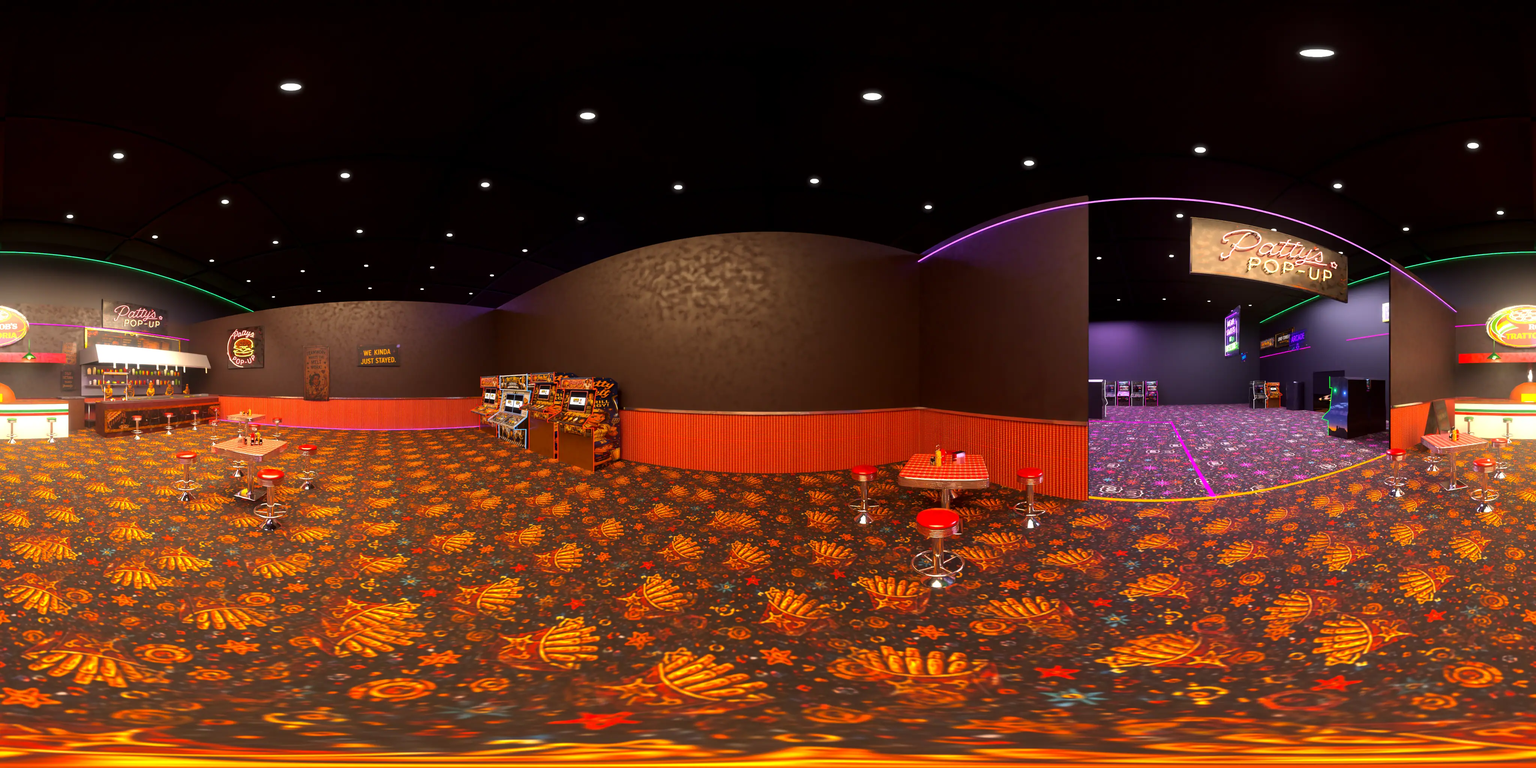
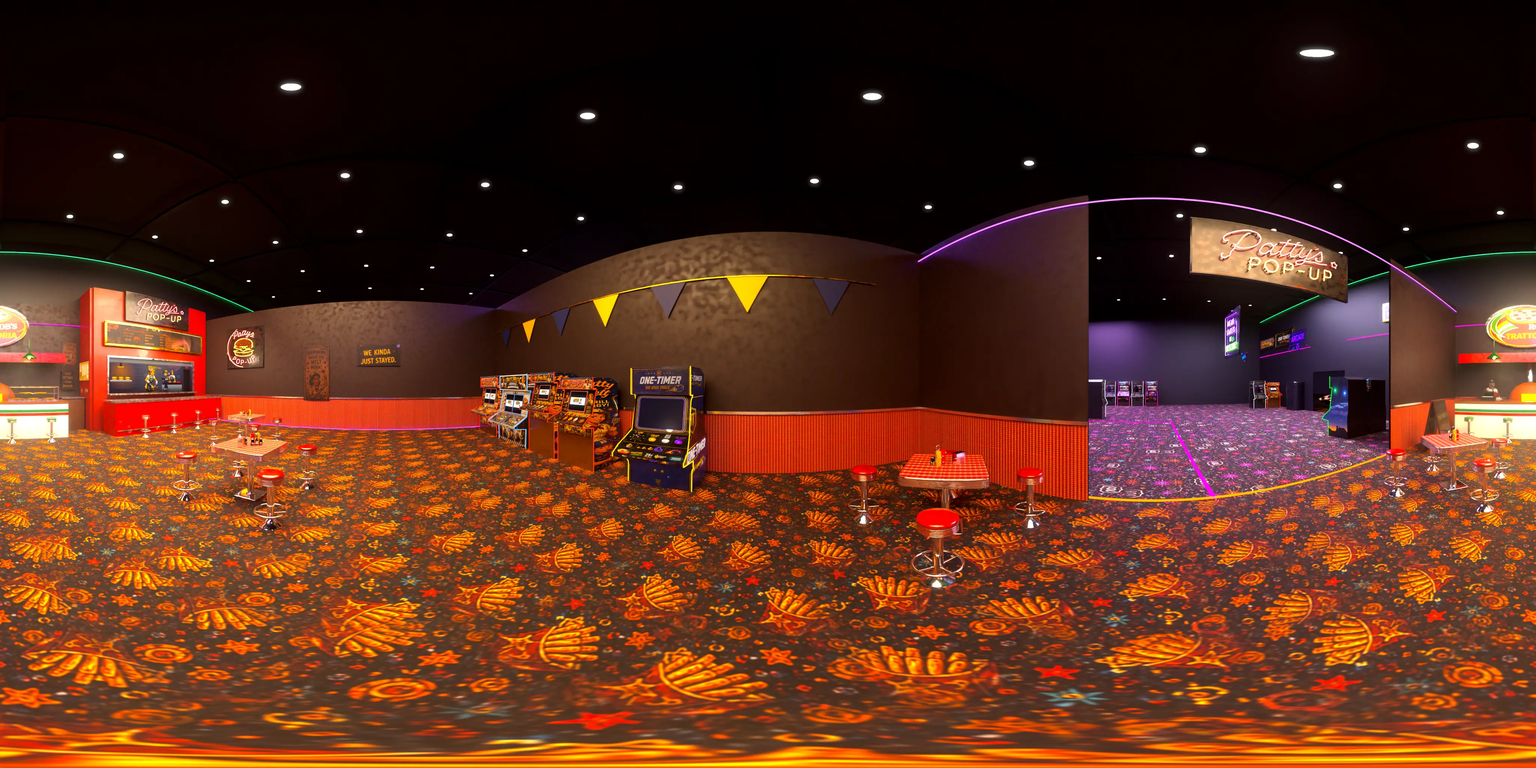
HYSCORE walk 1119: hallway to the GATEWAY open + Patty's pop-up / Rob's / student section panos; live-window player (live.js + sprite frames)

diff --git a/live.js b/live.js
@@ -1,0 +1,146 @@
+// HYSCORE WALK — LIVE WINDOWS (1119, Joe: "replace that with a window of game action with our game sprites cooking
+// burgers and billy grabbing burgers and disappearing out the back or serving an area of patrons you cant access").
+// The pop-up's kitchen is a pass-through window in its back wall. Through it: the PATTY MELT HEROES ink cast at work,
+// drawn live from the game's own sprites (data/live/*.webp): Chrissy at the flat-top with TWO spatulas (cheese, flip),
+// Patty on the second griddle, the burgers stacking on the pass under the heat lamp, and BILLY coming in the back door,
+// grabbing a burger off the pass, then either ducking out the back again or carrying it off to the student section
+// (out of frame: a place you can see served, never walk to). One 512x160 canvas, 12 drawings a second, a 10 s loop.
+// The panorama under it carries a still of the same scene (Blender's window quad), so moves (pre-rendered clips) match.
+// level.json `live`: [{id, quad: [[x,y,z] TL, TR, BR, BL] in metres, nodes: [ids that see it unobstructed]}].
+'use strict';
+(function () {
+  const W = 512, H = 160, FPS = 12, LOOP = 10;
+  const NAMES = ['chrissyB-cheese', 'chrissy-cheese', 'patty-serve', 'patty-idle', 'billyH-serve', 'billyH-turn', 'patty-done', 'patty-seared', 'patty-raw',
+                 'bread', 'cheese-melting'].concat([0, 1, 2, 3, 4, 5].map((i) => 'billyH-walk-' + i));
+  const SP = {}; let ready = null;
+  function load(base) {
+    if (ready) return ready;
+    ready = Promise.all(NAMES.map((n) => new Promise((res) => { const i = new Image(); i.onload = () => { SP[n] = i; res(); }; i.onerror = () => res(); i.src = base + n + '.webp'; })));
+    return ready;
+  }
+  const ease = (t) => t * t * (3 - 2 * t), clamp = (v, a, b) => Math.max(a, Math.min(b, v));
+  function spr(c, n, x, y, h, flip = false, alpha = 1) {      // x = centre, y = feet (bottom)
+    const im = SP[n]; if (!im) return; const w = im.width * h / im.height;
+    c.save(); c.globalAlpha = alpha; c.translate(x, y); if (flip) c.scale(-1, 1); c.drawImage(im, -w / 2, -h, w, h); c.restore();
+  }
+  function burger(c, x, y, s = 1) {                          // a cheeseburger built from the game's own grill pieces
+    const b = SP.bread, p = SP['patty-done'], ch = SP['cheese-melting'];
+    const bw = 30 * s;
+    if (b) c.drawImage(b, x - bw / 2, y - 7 * s, bw, 7 * s);
+    if (p) c.drawImage(p, x - bw * 0.48, y - 14 * s, bw * 0.96, 8 * s);
+    if (ch) c.drawImage(ch, x - bw * 0.5, y - 16 * s, bw, 5 * s);
+    if (b) { c.save(); c.translate(x, y - 16 * s); c.scale(1, -1); c.drawImage(b, -bw / 2, -9 * s, bw, 9 * s); c.restore(); }
+  }
+  function room(c, t) {
+    // back wall: COUGARS navy tile, gold grout, the hood's light falling down it
+    const g = c.createLinearGradient(0, 0, 0, H); g.addColorStop(0, '#1b2a55'); g.addColorStop(1, '#0c1430'); c.fillStyle = g; c.fillRect(0, 0, W, H);
+    c.strokeStyle = 'rgba(214,170,70,.13)'; c.lineWidth = 1;
+    for (let x = 0; x <= W; x += 18) { c.beginPath(); c.moveTo(x + .5, 22); c.lineTo(x + .5, H); c.stroke(); }
+    for (let y = 22; y <= H; y += 18) { c.beginPath(); c.moveTo(0, y + .5); c.lineTo(W, y + .5); c.stroke(); }
+    const hood = c.createLinearGradient(0, 0, 0, 24); hood.addColorStop(0, '#5b6068'); hood.addColorStop(.6, '#9aa0a8'); hood.addColorStop(1, '#3a3e45');
+    c.fillStyle = hood; c.fillRect(0, 0, W, 22);
+    const lt = c.createRadialGradient(250, 20, 10, 250, 40, 260); lt.addColorStop(0, 'rgba(255,214,150,.30)'); lt.addColorStop(1, 'rgba(255,214,150,0)'); c.fillStyle = lt; c.fillRect(0, 0, W, H);
+    // the back door (right): Billy's way in and out
+    c.fillStyle = '#3a2416'; c.fillRect(440, 34, 58, H - 34); c.fillStyle = '#07080c'; c.fillRect(446, 40, 46, H - 40);
+    const dl = c.createLinearGradient(446, 0, 492, 0); dl.addColorStop(0, 'rgba(120,150,200,.10)'); dl.addColorStop(1, 'rgba(120,150,200,.02)'); c.fillStyle = dl; c.fillRect(446, 40, 46, H - 40);
+    c.font = 'bold 10px Helvetica, Arial, sans-serif'; c.textAlign = 'center'; c.fillStyle = '#ff3b30'; c.shadowColor = '#ff3b30'; c.shadowBlur = 8; c.fillText('EXIT', 469, 31); c.shadowBlur = 0;
+    // the GO COUGARS pennant
+    c.fillStyle = '#e2b13c'; c.beginPath(); c.moveTo(214, 30); c.lineTo(296, 38); c.lineTo(214, 48); c.closePath(); c.fill();
+    c.fillStyle = '#13214a'; c.font = 'bold 8px Helvetica, Arial, sans-serif'; c.textAlign = 'left'; c.fillText('GO COUGARS!', 218, 42);
+    // the pass (left) under its heat lamp
+    const hl = c.createRadialGradient(62, 52, 4, 62, 80, 90); hl.addColorStop(0, 'rgba(255,140,40,.55)'); hl.addColorStop(1, 'rgba(255,120,30,0)'); c.fillStyle = hl; c.fillRect(0, 22, 160, 120);
+    c.fillStyle = '#2b2b2f'; c.fillRect(56, 22, 12, 16); c.fillStyle = '#ffb04a'; c.fillRect(46, 38, 32, 4);
+    c.fillStyle = '#b9bec6'; c.fillRect(8, 100, 112, 5); c.fillStyle = '#6d7279'; c.fillRect(8, 105, 112, 3);
+  }
+  function grill(c, t) {                                   // Patty's griddle (Chrissy's sprite brings her own)
+    c.fillStyle = '#16171a'; c.fillRect(300, 112, 128, 10);
+    const stages = ['patty-raw', 'patty-seared', 'patty-done'];
+    for (let i = 0; i < 4; i++) {
+      const ph = (t * 0.35 + i * 0.27) % 1, st = stages[Math.min(2, Math.floor(ph * 3))], im = SP[st];
+      if (im) c.drawImage(im, 306 + i * 30, 104, 26, 9);
+    }
+    const f = c.createLinearGradient(0, 122, 0, H); f.addColorStop(0, '#8f949b'); f.addColorStop(1, '#3f4349'); c.fillStyle = f; c.fillRect(296, 122, 136, H - 122);
+    c.fillStyle = 'rgba(255,255,255,.18)'; c.fillRect(296, 122, 136, 2);
+  }
+  function steam(c, t) {
+    for (let i = 0; i < 9; i++) {
+      const ph = (t * 0.4 + i * 0.37) % 1, x = (i < 4 ? 196 + i * 18 : 300 + (i - 4) * 28) + Math.sin(t * 2 + i) * 4, y = 108 - ph * 70;
+      c.fillStyle = `rgba(235,235,240,${0.16 * (1 - ph)})`; c.beginPath(); c.arc(x, y, 6 + ph * 10, 0, Math.PI * 2); c.fill();
+    }
+  }
+  function billy(c, t, loop) {
+    const walk = (k) => 'billyH-walk-' + (Math.floor(k * 10) % 6), Hb = 112, Y = H - 2;
+    let onPass = 3;
+    if (t < 2.6) { const x = 470 - ease(t / 2.6) * 340; spr(c, walk(t), x, Y, Hb, true, clamp((470 - x) / 18, 0, 1)); }
+    else if (t < 3.8) { spr(c, t < 3.0 ? 'billyH-turn' : 'billyH-serve', 128, Y, Hb, true); if (t >= 3.0) onPass = 2; }
+    else if (t < 6.6) {
+      onPass = 2; const k = ease((t - 3.8) / 2.8);
+      if (loop % 2 === 0) {                                // out the back door with it
+        const x = 128 + k * 342, a = clamp((470 - x) / 24, 0, 1);
+        spr(c, walk(t), x, Y, Hb, false, a); c.save(); c.globalAlpha = a; burger(c, x + 26, Y - Hb * 0.62, 0.8); c.restore();
+      } else {                                             // off to the student section (out of frame, left)
+        const x = 128 - k * 200; spr(c, walk(t), x, Y, Hb, true); burger(c, x - 26, Y - Hb * 0.62, 0.8);
+      }
+    } else onPass = t < 7.6 ? 2 : 3;
+    return onPass;
+  }
+  function frame(c, time) {
+    const T = time % LOOP, loop = Math.floor(time / LOOP);
+    room(c, T);
+    // Patty works the second griddle (shifting her weight), Chrissy cheeses + flips at the first, two spatulas each
+    spr(c, Math.floor(time * 0.8) % 2 ? 'patty-serve' : 'patty-idle', 364, H + 34, 150);
+    grill(c, time);
+    spr(c, Math.floor(time * 3) % 2 ? 'chrissyB-cheese' : 'chrissy-cheese', 232, H + 6, 128);
+    steam(c, time);
+    const n = billy(c, T, loop);
+    // the pass: the burgers waiting (drawn over Billy's legs: he reaches over the shelf)
+    for (let i = 0; i < n; i++) burger(c, 30 + i * 34, 100, 0.95);
+    // the window's own depth: a soft inner shadow so the scene sits behind the glass line
+    const v = c.createLinearGradient(0, 0, 0, H); v.addColorStop(0, 'rgba(0,0,0,.35)'); v.addColorStop(.18, 'rgba(0,0,0,0)'); v.addColorStop(.85, 'rgba(0,0,0,0)'); v.addColorStop(1, 'rgba(0,0,0,.3)');
+    c.fillStyle = v; c.fillRect(0, 0, W, H);
+  }
+  // ---------------------------------------------------------------- the overlay in the walk
+  function homography(src, dst) {   // 4 point pairs -> 3x3 (row-major), solving the 8x8 system
+    const A = [], b = [];
+    for (let i = 0; i < 4; i++) {
+      const [x, y] = src[i], [u, v] = dst[i];
+      A.push([x, y, 1, 0, 0, 0, -u * x, -u * y]); b.push(u); A.push([0, 0, 0, x, y, 1, -v * x, -v * y]); b.push(v);
+    }
+    for (let i = 0; i < 8; i++) {      // gaussian elimination
+      let p = i; for (let r = i + 1; r < 8; r++) if (Math.abs(A[r][i]) > Math.abs(A[p][i])) p = r;
+      [A[i], A[p]] = [A[p], A[i]]; [b[i], b[p]] = [b[p], b[i]];
+      for (let r = 0; r < 8; r++) { if (r === i) continue; const f = A[r][i] / A[i][i]; for (let k = i; k < 8; k++) A[r][k] -= f * A[i][k]; b[r] -= f * b[i]; }
+    }
+    const h = b.map((v, i) => v / A[i][i]); return [h[0], h[1], h[2], h[3], h[4], h[5], h[6], h[7], 1];
+  }
+  let canvas = null, ctx = null, cur = null, raf = 0, last = 0, t0 = performance.now();
+  function el() {
+    if (canvas) return canvas;
+    canvas = document.createElement('canvas'); canvas.width = W; canvas.height = H; canvas.id = 'live';
+    canvas.style.cssText = `position:absolute;inset:auto;left:0;top:0;width:${W}px;height:${H}px;transform-origin:0 0;pointer-events:none;display:none;`;   // (the page's canvas rule stretches canvases to the frame)
+    const hots = document.getElementById('hots'); hots.parentNode.insertBefore(canvas, hots); ctx = canvas.getContext('2d'); return canvas;
+  }
+  function tick(now) {
+    raf = 0; if (!cur || canvas.style.display === 'none') return;
+    if (now - last >= 1000 / FPS) { last = now; frame(ctx, (now - t0) / 1000); }
+    raf = requestAnimationFrame(tick);
+  }
+  // place(project): project(yaw, pitch) -> [fx, fy] screen fraction or null; called on every redraw of the panorama
+  function place(node, project, busy) {
+    const L = window.WALK && WALK.LEVEL; el();
+    cur = node && L && (L.live || []).find((w) => w.nodes.indexOf(node.id) >= 0) || null;
+    if (!cur || busy) { canvas.style.display = 'none'; return; }
+    const fr = document.getElementById('hots').getBoundingClientRect(), p = node.pos, pts = [];
+    for (const q of cur.quad) {
+      const dx = q[0] - p[0], dy = q[1] - p[1], dz = q[2] - p[2];
+      const yaw = Math.atan2(dx, dy) * 180 / Math.PI, pitch = Math.atan2(dz, Math.hypot(dx, dy)) * 180 / Math.PI;
+      const s = project((yaw + 360) % 360, pitch, true); if (!s) { canvas.style.display = 'none'; return; }
+      pts.push([s[0] * fr.width, s[1] * fr.height]);
+    }
+    const h = homography([[0, 0], [W, 0], [W, H], [0, H]], pts);
+    canvas.style.transform = `matrix3d(${h[0]},${h[3]},0,${h[6]},${h[1]},${h[4]},0,${h[7]},0,0,1,0,${h[2]},${h[5]},0,${h[8]})`;
+    canvas.style.display = '';
+    load('data/live/').then(() => { if (!raf) raf = requestAnimationFrame(tick); });
+  }
+  window.LIVE = { place, frame, load, W, H };
+})();
